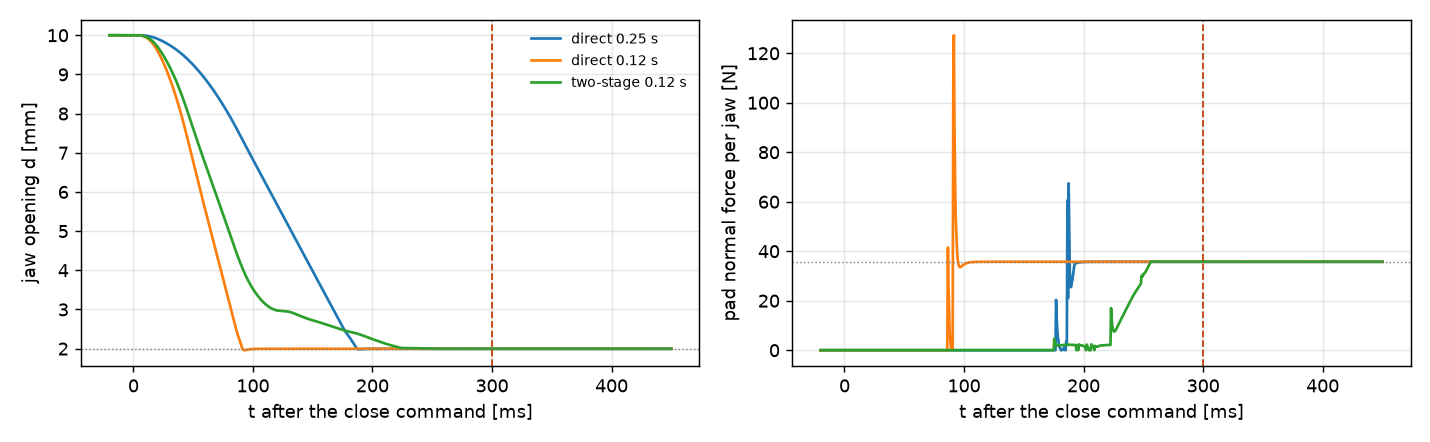
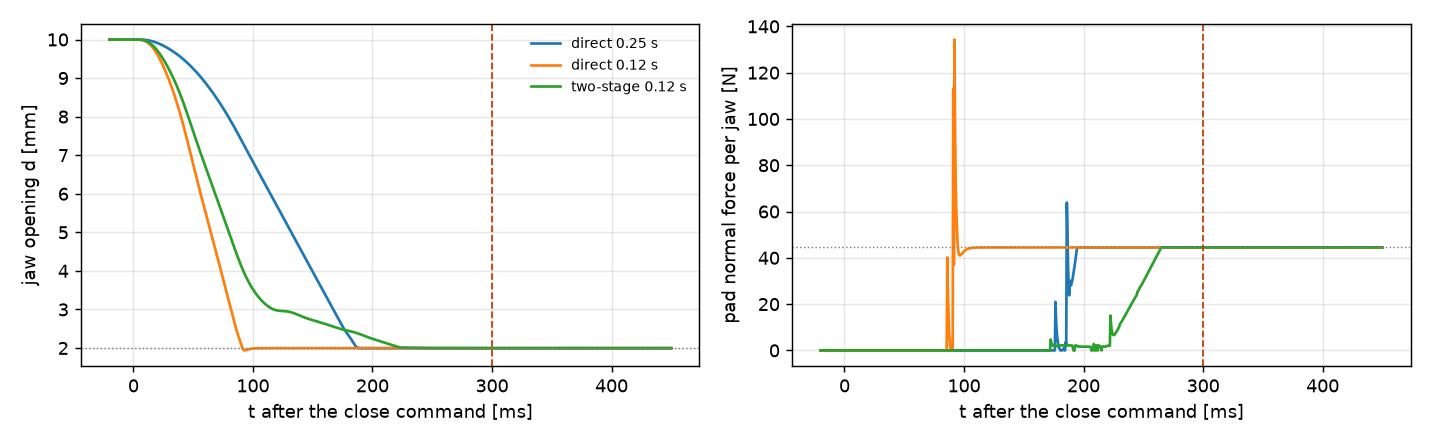
Grip forces separated: required 35.7, setpoint 44.5, current limit 48.5, available 60.5, strength case 63.6 N
- gripper_params: A_PATH_REAL 4.96 m/s2 (MuJoCo), F_GRIP_SET, F_JAW_LIMIT from the KHK bevel rating, F_JAW_AVAIL with
  all losses (V2), F_JAW_MAX kept as the FEM upper bound
- FEM LC1/LC3 at the setpoint; MuJoCo cases required / setpoint / e-stop at both, all held; closing study at the
  setpoint; gripper mass 2.915 kg and moving masses with the size 12 carriage

diff --git a/Elias/02_CAD_Body/gripper_params.py b/Elias/02_CAD_Body/gripper_params.py
@@ -29,10 +29,14 @@ GEAR_I, GEAR_ETA, GEAR_L = 7.07, 0.90, 38.0     # GP42-S1-7-SR (same housing as 
 BRAKE_T = 0.35                                  # BRAKE-BWA-0,35-5, 24 V
 T_PINION_STATIC = MOTOR_T_HOLD * GEAR_I * GEAR_ETA
 T_PINION_BRAKE = BRAKE_T * GEAR_I
-F_JAW_MAX = T_PINION_STATIC / (2 * PINION_D / 2 / 1000)   # N per jaw at full current, FEM worst case
+F_JAW_MAX = T_PINION_STATIC / (2 * PINION_D / 2 / 1000)   # N per jaw at full current, gearbox loss only: FEM upper bound
+ETA_BEVEL, ETA_RP = 0.98, 0.97                  # V2 § 10
+F_JAW_AVAIL = F_JAW_MAX * ETA_BEVEL * ETA_RP    # N per jaw the motor really delivers at full current (all losses)
 # Part may be dirty or oily (feedback 10 Nov): design with a lubricated friction coefficient, source to cite in V2.
 MU_OILY = 0.2
-F_GRIP_OILY = S_SICHERHEIT * B_MASSE * (G + A_BAHN) / (N_BACKEN * MU_OILY)
+F_GRIP_OILY = S_SICHERHEIT * B_MASSE * (G + A_BAHN) / (N_BACKEN * MU_OILY)   # required by the hand calculation (2.05 m/s2)
+A_PATH_REAL = 4.96                  # m/s2, TCP peak on the real MoveJ path (MuJoCo, E4): axis 1 turns ~160 deg
+F_GRIP_SET = S_SICHERHEIT * B_MASSE * (G + A_PATH_REAL) / (N_BACKEN * MU_OILY)   # operating setpoint, also covers the e-stop (V2)
 
 # Ganter GN 617-5-A indexing plunger (steel, knob, no lock nut), ganternorm.com dimension table
 PLUNGER_PIN_D, PLUNGER_THREAD, PLUNGER_KNOB_D = 5.0, "M10x1", 21.0
@@ -121,6 +125,8 @@ PINION_Z0 = -11.0                   # pinion teeth z -11..-1, 1 mm above the rac
 # Modelled with straight teeth as a stand-in, same pitch diameter, face width and hub.
 BEVEL_Z, BEVEL_B, BEVEL_HUB_D, BEVEL_HUB_L = 20, 5.0, 16.0, 6.0
 BEVEL_T_ALLOW = 0.97                # N*m, KHK surface durability (600 rpm, 1e7 cycles): caps the grip force at 48 N
+F_JAW_LIMIT = BEVEL_T_ALLOW / (2 * PINION_D / 2 / 1000)   # N per jaw: current limit in the controller, never above
+assert F_GRIP_SET <= F_JAW_LIMIT <= F_JAW_AVAIL, (F_GRIP_SET, F_JAW_LIMIT, F_JAW_AVAIL)
 BEARING = (8.0, 22.0, 7.0)          # DIN 625 608-2Z
 BEARING_LOWER_Z, BEARING_UPPER_Z = 0.0, 9.5
 BOSS_D = 32.0

diff --git a/Elias/05_FEM/load_cases.py b/Elias/05_FEM/load_cases.py
@@ -26,15 +26,15 @@ R_PINION = P.PINION_D / 2 / 1000                # m
 F_BRAKE = P.T_PINION_BRAKE / (2 * R_PINION)     # N per jaw before the brake slips
 
 M_PART = P.B_MASSE
-F_HOLD_Z = M_PART * (P.G + P.A_BAHN) / P.N_BACKEN     # friction each jaw carries: weight + path acceleration
+F_HOLD_Z = M_PART * (P.G + P.A_PATH_REAL) / P.N_BACKEN     # friction each jaw carries: weight + real path acceleration
 F_STOP_Z = M_PART * (P.G + A_STOP) / P.N_BACKEN
 F_STOP_Y = M_PART * A_STOP / P.N_BACKEN
 
 # (name, Fx, Fy, Fz, safety factor required against Rp0.2, what it stands for)
 LOAD_CASES = [
-    ("LC1 nominal grip", P.F_GRIP_OILY, 0.0, 0.0, 2.0, "required grip force, oily part, mu 0.2, S 2"),
-    ("LC2 full current", P.F_JAW_MAX, 0.0, 0.0, 2.0, "motor at full current, end stop or part"),
-    ("LC3 transport", P.F_GRIP_OILY, M_PART * P.A_BAHN / P.N_BACKEN, -F_HOLD_Z, 2.0,
+    ("LC1 setpoint grip", P.F_GRIP_SET, 0.0, 0.0, 2.0, "operating grip force (real path, mu 0.2, S 2)"),
+    ("LC2 full current", P.F_JAW_MAX, 0.0, 0.0, 2.0, "motor at full current (current limit set wrong), end stop or part"),
+    ("LC3 transport", P.F_GRIP_SET, M_PART * P.A_PATH_REAL / P.N_BACKEN, -F_HOLD_Z, 2.0,
      "LC1 plus the part's weight and path acceleration carried by friction"),
     ("LC4 emergency stop", P.F_JAW_MAX, F_STOP_Y, -F_STOP_Z, 1.5,
      "LC2 plus the part decelerating at A_STOP (ABB stop data, axis 1)"),
@@ -59,7 +59,7 @@ BC = [
 # Acceptance criteria
 TILT_MAX = 0.1                   # deg pad tilt for LC2: the pads must stay flat on the part (governing criterion)
 DEFLECTION_MAX = 0.05            # mm at the pad centre for LC2, reported only: most of it is the slide bending
-CYCLES_PER_YEAR = 3.0e6          # 5 s cycle, 2 shifts; LC1 is the pulsating load (0 -> F)
+CYCLES_PER_YEAR = 3.0e6          # 5 s cycle, 2 shifts; LC1 (setpoint) is the pulsating load (0 -> F)
 
 
 def table():

diff --git a/Elias/04_Simulation/validate_grip.py b/Elias/04_Simulation/validate_grip.py
@@ -3,8 +3,9 @@
 python validate_grip.py  ->  out/grip_results.json, figures/grip_slip.png
 
 Cases (force = jaw force limit of the current-limited drive, per jaw):
-  nominal      F = F_GRIP_OILY (S = 2 in the hand calculation): the part must not slip
+  required     F = F_GRIP_OILY (S = 2 in the hand calculation, 2.05 m/s2): the part must not slip
   limit        F = F_GRIP_OILY / S: no safety left, slip expected to start
+  setpoint     F = F_GRIP_SET (S = 2 with the real 4.96 m/s2), the force the controller is set to
   e-stop       F nominal, category 0 stop in the middle of the transfer with the ABB axis decelerations; the brake locks the jaws
 Path: pick on the buffer belt, lift, transfer to the workpiece carrier in T_EINWEG with a trapezoidal profile
 (A_BAHN, V_BAHN from cad/params.py), lower. The robot follows the joint path through stiff position control.
@@ -179,8 +180,8 @@ def run(case, force, estop=False, mu=None, t_transfer=None, dt_log=0.005, rec=No
 
 def main():
     os.makedirs(os.path.join(HERE, "figures"), exist_ok=True)
-    cases = [("nominal", GP.F_GRIP_OILY, False), ("limit (no safety)", GP.F_GRIP_OILY / GP.S_SICHERHEIT, False),
-             ("full current", GP.F_JAW_MAX, False), ("e-stop", GP.F_GRIP_OILY, True), ("e-stop full current", GP.F_JAW_MAX, True)]
+    cases = [("required", GP.F_GRIP_OILY, False), ("limit (no safety)", GP.F_GRIP_OILY / GP.S_SICHERHEIT, False),
+             ("setpoint", GP.F_GRIP_SET, False), ("e-stop at required", GP.F_GRIP_OILY, True), ("e-stop at setpoint", GP.F_GRIP_SET, True)]
     out, logs = [], {}
     for name, f, es in cases:
         r, lg = run(name, f, es)

diff --git a/Elias/04_Simulation/build_model.py b/Elias/04_Simulation/build_model.py
@@ -25,7 +25,7 @@ KIN = json.load(open(os.path.join(CAD, "out", "kinematics.json")))
 MM = 0.001
 
 MU_PAD = GP.MU_OILY                       # NBR pad on oily PA 6, the value V2 has to justify
-GRIPPER_MASS, SLIDE_MASS = 2.30, 0.22     # kg, from the build (2.75 total incl. the moving groups)
+GRIPPER_MASS, SLIDE_MASS = 2.38, 0.27     # kg, from the build (2.915 total incl. the moving groups, rail size 12)
 GRIPPER_COM = (0.0, -4.2, 76.0 - 66.0)    # mm in the gripper frame (build: 66 mm below the flange face z = 76)
 ROBOT_LINK_MASS = [18.0, 9.0, 6.0, 3.0, 2.5, 0.8, 0.1]   # kg, rough split of the 65 kg arm; gravity compensated anyway
 COLORS = {"EN AW-6082": "0.72 0.75 0.78 1", "EN AW-7075": "0.76 0.25 0.05 1", "steel": "0.45 0.48 0.50 1",
@@ -160,7 +160,7 @@ def build():
   <equality><joint joint1="jaw_R" joint2="jaw_L" polycoef="0 1 0 0 0" solref="0.0005 1" solimp="0.99 0.999 0.0001"/></equality>
   <actuator>
     {chr(10).join(f'    <position name="A{i}" joint="A{i}" kp="20000" kv="400" ctrlrange="{np.radians(CP.ROBOT["lim"][i - 1][0]):.4f} {np.radians(CP.ROBOT["lim"][i - 1][1]):.4f}"/>' for i in range(1, 7))}
-    <position name="jaw" tendon="jaws" kp="200000" kv="500" forcerange="-{2 * GP.F_GRIP_OILY:.3f} {2 * GP.F_GRIP_OILY:.3f}"/>   <!-- drives both jaws: 2 x force per jaw -->
+    <position name="jaw" tendon="jaws" kp="200000" kv="500" forcerange="-{2 * GP.F_GRIP_SET:.3f} {2 * GP.F_GRIP_SET:.3f}"/>   <!-- drives both jaws: 2 x force per jaw -->
   </actuator>
   <sensor>
     <framepos name="part_pos" objtype="body" objname="part"/>

diff --git a/Elias/04_Simulation/validation_notebook.py b/Elias/04_Simulation/validation_notebook.py
@@ -37,7 +37,7 @@ def _(mo):
 @app.cell
 def _(GP, mo):
     mu = mo.ui.slider(0.1, 0.6, step=0.05, value=GP.MU_OILY, label="friction µ (pad on part)", show_value=True)
-    force = mo.ui.slider(10.0, round(GP.F_JAW_MAX, 1), step=0.5, value=round(GP.F_GRIP_OILY, 1),
+    force = mo.ui.slider(10.0, round(GP.F_JAW_LIMIT, 1), step=0.5, value=round(GP.F_GRIP_SET, 1),
                          label="grip force per jaw [N]", show_value=True)
     t_tr = mo.ui.slider(1.2, 4.0, step=0.1, value=GP.T_EINWEG, label="transfer time [s]", show_value=True)
     safety = mo.ui.slider(1.0, 3.0, step=0.25, value=GP.S_SICHERHEIT, label="safety factor S (hand calc.)", show_value=True)
@@ -155,7 +155,7 @@ def _(GP, mo):
     cl_prof = mo.ui.dropdown(["two-stage", "direct"], value="two-stage", label="profile")
     cl_fast = mo.ui.slider(0.06, 0.3, step=0.01, value=0.12, label="fast phase [s]", show_value=True)
     cl_vt = mo.ui.slider(2.0, 50.0, step=1.0, value=10.0, label="approach speed last mm [mm/s]", show_value=True)
-    cl_force = mo.ui.slider(10.0, round(GP.F_JAW_MAX, 1), step=0.5, value=round(GP.F_GRIP_OILY, 1),
+    cl_force = mo.ui.slider(10.0, round(GP.F_JAW_LIMIT, 1), step=0.5, value=round(GP.F_GRIP_SET, 1),
                             label="current limit = grip force per jaw [N]", show_value=True)
     mo.vstack([mo.hstack([cl_prof, cl_fast], justify="start", gap=2), mo.hstack([cl_vt, cl_force], justify="start", gap=2)])
     return cl_fast, cl_force, cl_prof, cl_vt

diff --git a/Elias/02_CAD_Body/build.py b/Elias/02_CAD_Body/build.py
@@ -420,8 +420,9 @@ def main():
     print(f"centre of mass from the flange face: x {cog.x:.1f}, y {cog.y:.1f}, z {cog.z - info['flange_z']:.1f} mm; "
           f"TCP (grip centre) z {P.PART_OFFSET[2] + 17.5 - info['flange_z']:.1f} mm")
     report["cog_from_flange_mm"] = [cog.x, cog.y, cog.z - info["flange_z"]]
-    print(f"grip force: needed {P.F_GRIP_OILY:.1f} N per jaw (oily, mu {P.MU_OILY}), available {P.F_JAW_MAX:.1f} N "
-          f"(x{P.F_JAW_MAX / P.F_GRIP_OILY:.2f}), brake {P.T_PINION_BRAKE:.2f} N*m at the pinion")
+    print(f"grip force per jaw: required {P.F_GRIP_OILY:.1f} N (hand calc.), setpoint {P.F_GRIP_SET:.1f} N (real path), "
+          f"current limit {P.F_JAW_LIMIT:.1f} N (bevel), available {P.F_JAW_AVAIL:.1f} N, strength case {P.F_JAW_MAX:.1f} N; "
+          f"brake {P.T_PINION_BRAKE:.2f} N*m at the pinion")
     print(f"flange face z = {info['flange_z']:.1f}, cover underside z = {P.POCKET_Z - P.COVER_T:.1f}, "
           f"build height {info['flange_z'] - (P.POCKET_Z - P.COVER_T):.1f} mm above the jaws")
 

diff --git a/Elias/04_Simulation/closing_time.py b/Elias/04_Simulation/closing_time.py
@@ -77,7 +77,7 @@ def profile_torque_check(t_fast, travel, usable=0.7):
     return dict(v_max=vmax, rpm=w * 60 / (2 * math.pi), torque_need=t_need, torque_avail=usable * DRV.torque_avail(w))
 
 
-def run(name, t_fast, force=GP.F_GRIP_OILY, rec=None):
+def run(name, t_fast, force=GP.F_GRIP_SET, rec=None):
     m, d = S.load()
     q0, _ = S.q_pick()
     S.set_robot(m, d, q0, jaw=D_OPEN)
@@ -171,7 +171,7 @@ def plot(logs, path, fig=None):
         ax[1].plot(t, 0.5 * (np.array(lg["fL"]) + np.array(lg["fR"])), label=name)
     ax[0].axhline(GP.D_GRIP, color="0.5", lw=0.8, ls=":")
     ax[0].set_ylabel("jaw opening d [mm]")
-    ax[1].axhline(GP.F_GRIP_OILY, color="0.5", lw=0.8, ls=":")
+    ax[1].axhline(GP.F_GRIP_SET, color="0.5", lw=0.8, ls=":")
     ax[1].set_ylabel("pad normal force per jaw [N]")
     for a in ax:
         a.axvline(T_REQ * 1000, color="#C2410C", ls="--", lw=1)

diff --git a/Elias/04_Simulation/drive.py b/Elias/04_Simulation/drive.py
@@ -21,7 +21,7 @@ K_M = GP.MOTOR_T_HOLD / I_RATED                   # N*m/A = V*s/rad
 J_GEAR_IN, J_BRAKE = 1.5e-6, 1.0e-6
 J_OUT = 2 * 0.5 * 0.012 * 0.010 ** 2 + 0.5 * 0.035 * 0.005 ** 2   # at the pinion: bevel gears + shaft
 # moving mass per jaw: slide, holder, jaw, ball carriage, rack (bom.csv)
-M_JAW = (73 + 29 + 31 + 37 + 65) / 1000.0
+M_JAW = (73 + 29 + 31 + 51 + 65) / 1000.0
 F_FRICTION = 2.5                                  # N per jaw: carriage seals + brush seal along the slot (estimate)
 ETA = GP.GEAR_ETA * 0.92                          # planetary x rack-pinion (cad/params.py ETA_GETRIEBE)
 

diff --git a/Elias/04_Simulation/README.md b/Elias/04_Simulation/README.md
@@ -33,11 +33,15 @@ the limit; median over the moving phases and 50 ms peak.
 
 | Case | Force per jaw | friction use median / peak | part movement in the jaws | |
 |---|---|---|---|---|
-| nominal | 35.7 N | 0.42 / 0.85 | 0.81 mm | held |
-| no safety (F / S) | 17.9 N | 0.83 / 1.00 | 1.96 mm | held only just, micro-slip |
-| full current | 63.6 N | 0.23 / 0.65 | 0.41 mm | held |
-| e-stop, ABB category 0 | 35.7 N | 0.41 / 0.64 | 0.45 mm | held |
-| e-stop, full current | 63.6 N | 0.23 / 0.65 | 0.25 mm | held |
+| required (hand calc., 2.05 m/s²) | 35.7 N | 0.42 / 0.85 | 0.81 mm | held |
+| no safety (F / S) | 17.9 N | 0.83 / 1.00 | 1.88 mm | held only just, micro-slip |
+| **setpoint** (real path 4.96 m/s²) | 44.5 N | 0.34 / 0.86 | 0.64 mm | held |
+| e-stop at required, ABB category 0 | 35.7 N | 0.41 / 0.67 | 0.45 mm | held |
+| e-stop at setpoint | 44.5 N | 0.33 / 0.79 | 0.36 mm | held |
+
+Grip forces per jaw (`gripper_params.py`): required 35.7 N (hand calculation), **setpoint 44.5 N** (real path),
+**current limit 48.5 N** (KHK bevel pair, 0.97 N·m), available 60.5 N (motor, all losses), 63.6 N strength case
+(current limit set wrong). Since 19 Nov: rail size 12, gripper 2.915 kg.
 
 - The hand calculation is confirmed: with S = 2 it expects 0.5 at its design acceleration; the simulation gives a
   median of 0.42 and scales with 1/F as it should (full current 0.23).
@@ -58,15 +62,15 @@ the limit; median over the moving phases and 50 ms peak.
 ## Closing time (`closing_time.py`, `out/closing_results.json`, `figures/closing.png`)
 
 Requirement from the hand calculation V2: close 8 mm per jaw and have the grip force within 0.3 s. The drive runs
-position controlled with the current limit as grip force (35.7 N per jaw). Motor curve from the datasheet's electrical
+position controlled with the current limit as grip force (setpoint 44.5 N per jaw). Motor curve from the datasheet's electrical
 values at 24 V (phasor sum of back-EMF and winding impedance), 70 % usable in closed loop; the Nanotec curve still
 has to be laid over it.
 
 | Profile | contact | grip force within 5 % | peak pad force | motor peak |
 |---|---|---|---|---|
-| direct, trapezoid 0.25 s | 177 ms at 50 mm/s | 193 ms | 76.7 N (1.9 ×) | 324 rpm, 0.018 of 0.136 N·m |
-| direct, trapezoid 0.12 s | 87 ms at 108 mm/s | 99 ms | 148.5 N (3.6 ×) | 675 rpm, 0.030 of 0.136 N·m |
-| two-stage: 0.12 s to 1 mm before the part, then 10 mm/s | 176 ms at 9 mm/s | 255 ms | 37.0 N (1.0 ×) | 591 rpm, 0.028 of 0.136 N·m |
+| direct, trapezoid 0.25 s | 177 ms at 51 mm/s | 195 ms | 73.0 N (1.4 ×) | 324 rpm, 0.018 of 0.136 N·m |
+| direct, trapezoid 0.12 s | 86 ms at 109 mm/s | 100 ms | 138.7 N (3.0 ×) | 675 rpm, 0.030 of 0.136 N·m |
+| two-stage: 0.12 s to 1 mm before the part, then 10 mm/s | 173 ms at 10 mm/s | 263 ms | 45.3 N (1.0 ×) | 591 rpm, 0.028 of 0.136 N·m |
 
 - Torque is not the limit: the motor could cover the 8 mm in 45 ms. The motor uses at most a quarter of its torque.
 - The limit is the impact. Rotor, gearbox and brake act like 3.2 kg on the jaws, seven times the jaws themselves

diff --git a/Elias/05_FEM/README.md b/Elias/05_FEM/README.md
@@ -46,9 +46,9 @@ so holder and slide see their real loads. When V3 arrives only `export_train.py`
 
 | Load case | Fx [N] | Fy [N] | Fz [N] | S req. | Meaning |
 |---|---|---|---|---|---|
-| LC1 nominal grip | 35.7 | 0.0 | 0.0 | 2.0 | required grip force, oily part, mu 0.2, S 2 |
+| LC1 setpoint grip | 44.5 | 0.0 | 0.0 | 2.0 | operating grip force (real path, mu 0.2, S 2) |
 | LC2 full current | 63.6 | 0.0 | 0.0 | 2.0 | motor at full current, end stop or part |
-| LC3 transport | 35.7 | 0.6 | -3.6 | 2.0 | LC1 plus the part's weight and path acceleration carried by friction |
+| LC3 transport | 44.5 | 1.5 | -4.4 | 2.0 | LC1 plus the part's weight and path acceleration carried by friction |
 | LC4 emergency stop | 63.6 | 3.6 | -6.6 | 1.5 | LC2 plus the part decelerating at 12.1 m/s² (ABB category 0 stop data, axis 1 at 1.0 m) |
 | LC5 brake limit | 123.7 | 0.0 | 0.0 | 1.2 | power off, jaw pushed until the brake slips (misuse / collision) |
 
@@ -70,9 +70,9 @@ was fixed in x too, which put the rack's job on the carriage.
 
 | Load case | u pad [µm] | tilt [°] | slide [MPa] / S | holder [MPa] / S | jaw V3 [MPa] / S |
 |---|---|---|---|---|---|
-| LC1 nominal grip | 33.2 | 0.051 | 8.6 / 29.0 | 9.9 / 25.2 | 12.2 / 37.8 |
+| LC1 setpoint grip | 41.4 | 0.064 | 10.7 / 23.3 | 12.4 / 20.2 | 15.2 / 30.3 |
 | LC2 full current | 59.2 | 0.091 | 15.4 / 16.3 | 17.7 / 14.1 | 21.7 / 21.2 |
-| LC3 transport | 33.5 | 0.052 | 8.7 / 28.7 | 10.1 / 24.7 | 12.4 / 37.2 |
+| LC3 transport | 41.8 | 0.064 | 10.8 / 23.2 | 12.8 / 19.5 | 15.4 / 29.9 |
 | LC4 emergency stop | 60.1 | 0.092 | 15.3 / 16.3 | 18.8 / 13.3 | 22.1 / 20.9 |
 | LC5 brake limit | 115.1 | 0.177 | 29.9 / 8.4 | 34.4 / 7.3 | 42.2 / 10.9 |
 
